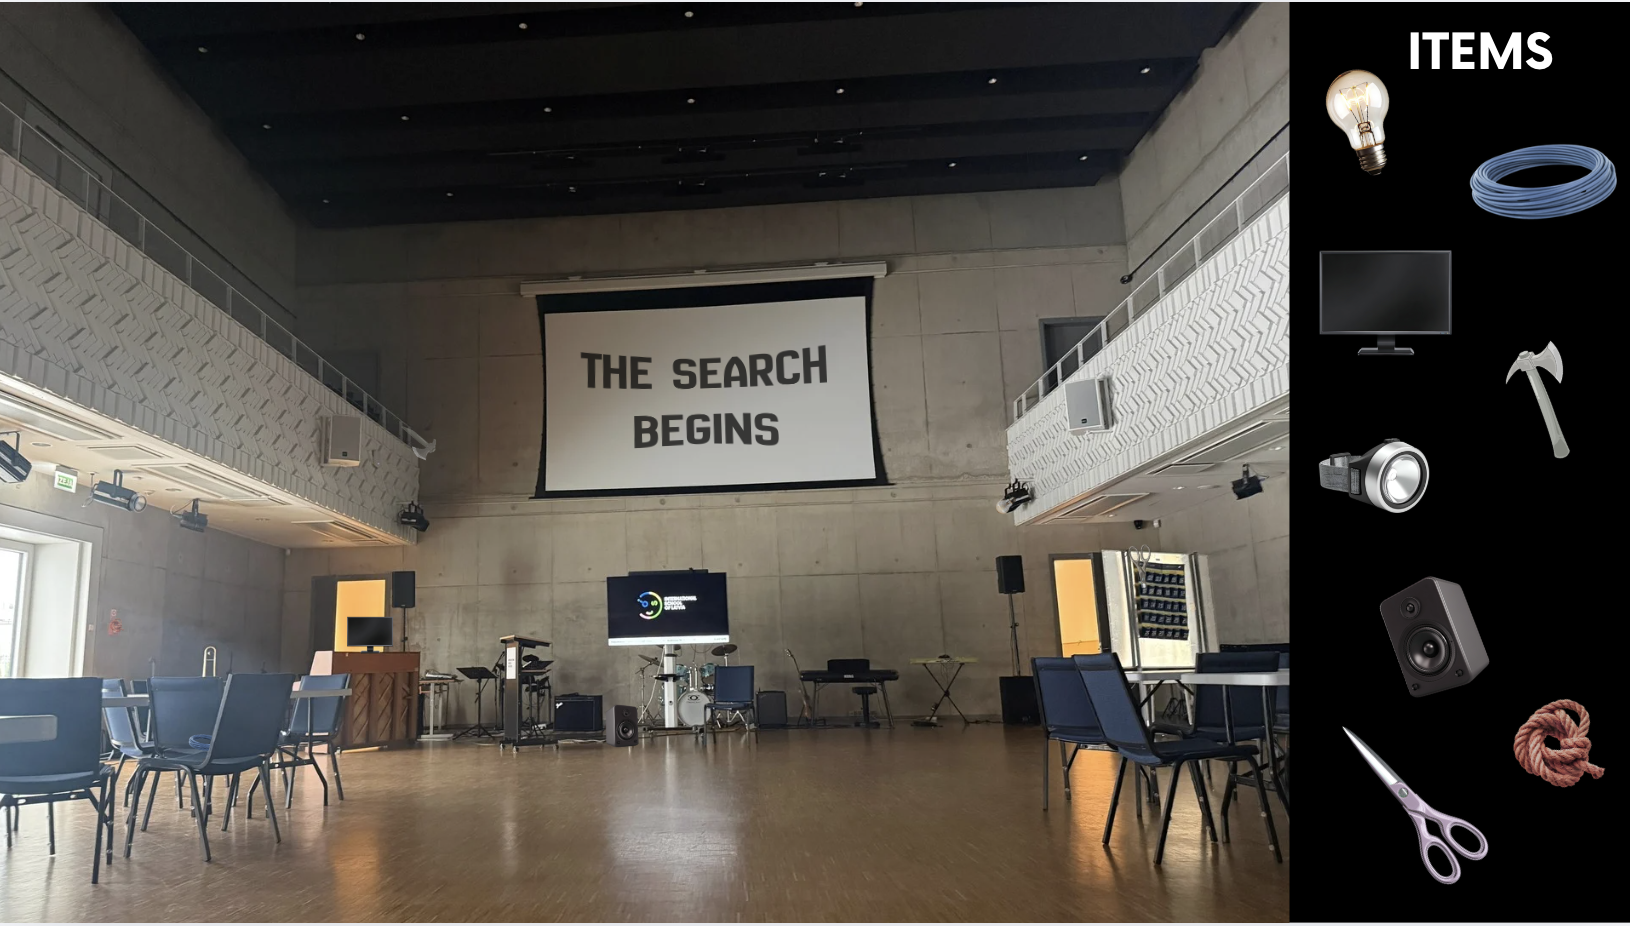
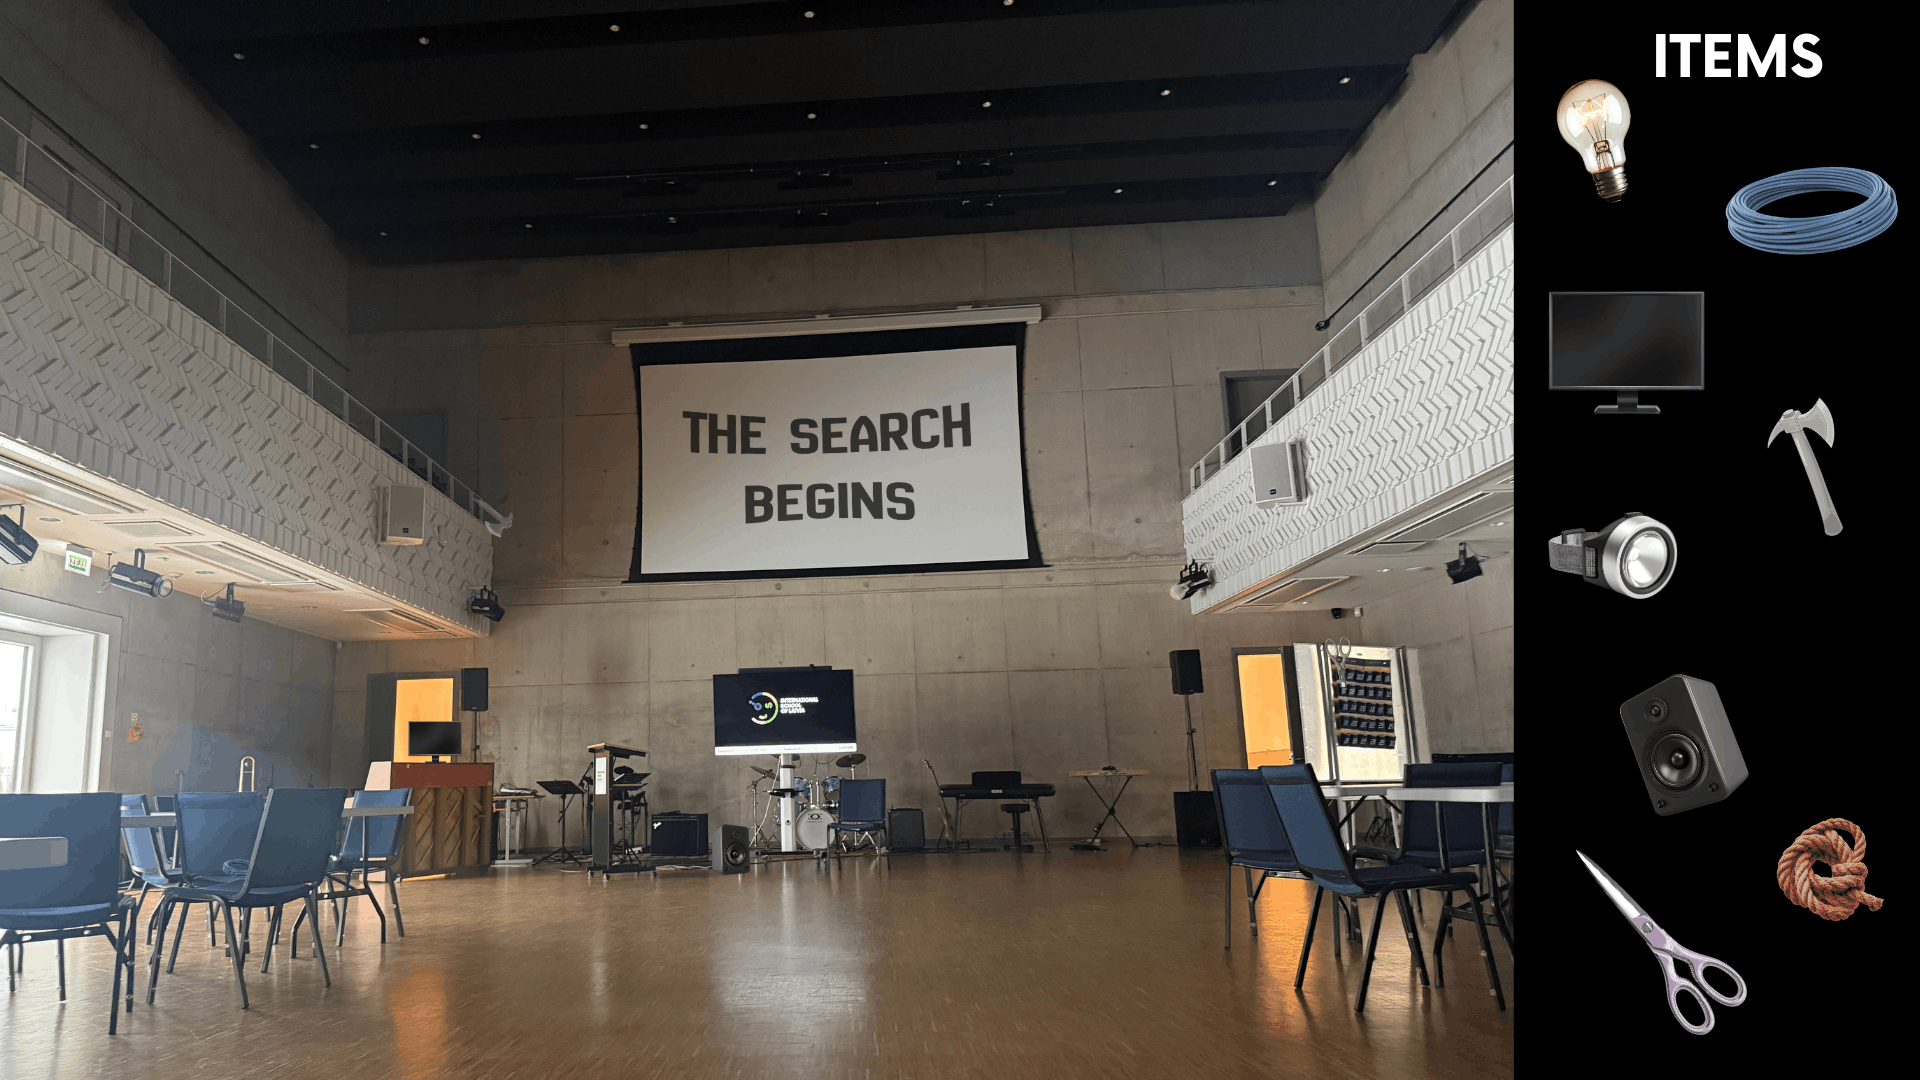
Changed images to the compressed ones, coded the end screen and removed the white borders

diff --git a/index.html b/index.html
@@ -17,47 +17,42 @@ DO NOT let AI code for you!!
 </head>
 
 <body>
-  <div id="start-screen" class="screen">
-    <img src="Images/start.png" class="full-bg">
-    <div class="story-overlay">
-      <h1>The Silent Auditorium</h1>
-      <p>The system needs your help. To bring this space back to normal,
-        you must solve a puzzle that correctly orders the lights,
-        sound, and screen cues</p>
-      <img src="Images/arrow.png" id="start-arrow" onclick="startGame()">
+    <div id="start-screen" class="screen">
+        <img src="Images/start.png" class="full-bg">
+        <div class="story-overlay">
+            <h1>The Silent Auditorium</h1>
+            <p>The system needs your help...</p>
+            <img src="Images/arrow.png" id="start-arrow" onclick="startGame()">
+        </div>
     </div>
-  </div>
 
-  <div id="game-screen" class="screen hidden">
-    <img src="Images/The game.png" class="full-bg">
+    <div id="game-screen" class="screen hidden">
+        <img src="Images/The game.png" class="full-bg">
+
+        <div id="hit-bulb" class="hitbox" onclick="found('bulb')"></div>
+        <div id="hit-wire" class="hitbox" onclick="found('wire')"></div>
+        <div id="hit-monitor" class="hitbox" onclick="found('monitor')"></div>
+        <div id="hit-axe" class="hitbox" onclick="found('axe')"></div>
+        <div id="hit-flashlight" class="hitbox" onclick="found('flashlight')"></div>
+        <div id="hit-speaker" class="hitbox" onclick="found('speaker')"></div>
+        <div id="hit-scissors" class="hitbox" onclick="found('scissors')"></div>
+        <div id="hit-rope" class="hitbox" onclick="found('rope')"></div>
+
+        <img src="Images/checkmark.png" id="check-bulb" class="check-sticker hidden">
+        <img src="Images/checkmark.png" id="check-wire" class="check-sticker hidden">
+        <img src="Images/checkmark.png" id="check-monitor" class="check-sticker hidden">
+        <img src="Images/checkmark.png" id="check-axe" class="check-sticker hidden">
+        <img src="Images/checkmark.png" id="check-flashlight" class="check-sticker hidden">
+        <img src="Images/checkmark.png" id="check-speaker" class="check-sticker hidden">
+        <img src="Images/checkmark.png" id="check-scissors" class="check-sticker hidden">
+        <img src="Images/checkmark.png" id="check-rope" class="check-sticker hidden">
+    </div>
 
     <div id="end-screen" class="screen hidden" style="display:none;">
-    <img src="Images/theendscreen.png" class="full-bg">
-</div>
+        <img src="Images/theendscreen.png" class="full-bg">
+    </div>
 
-    <div id="hit-bulb" class="hitbox" onclick="found('bulb')"></div>
-    <div id="hit-wire" class="hitbox" onclick="found('wire')"></div>
-    <div id="hit-monitor" class="hitbox" onclick="found('monitor')"></div>
-    <div id="hit-axe" class="hitbox" onclick="found('axe')"></div>
-    <div id="hit-flashlight" class="hitbox" onclick="found('flashlight')"></div>
-    <div id="hit-speaker" class="hitbox" onclick="found('speaker')"></div>
-    <div id="hit-scissors" class="hitbox" onclick="found('scissors')"></div>
-    <div id="hit-rope" class="hitbox" onclick="found('rope')"></div>
-
-    <img src="Images/checkmark.png" id="check-bulb" class="check-sticker hidden">
-    <img src="Images/checkmark.png" id="check-wire" class="check-sticker hidden">
-    <img src="Images/checkmark.png" id="check-monitor" class="check-sticker hidden">
-    <img src="Images/checkmark.png" id="check-axe" class="check-sticker hidden">
-    <img src="Images/checkmark.png" id="check-flashlight" class="check-sticker hidden">
-    <img src="Images/checkmark.png" id="check-speaker" class="check-sticker hidden">
-    <img src="Images/checkmark.png" id="check-scissors" class="check-sticker hidden">
-    <img src="Images/checkmark.png" id="check-rope" class="check-sticker hidden">
-  </div>
-  <script src="script.js"></script>
-  <div id="game-screen" class="screen hidden">
-    <img src="Images/The game.png" class="full-bg">
-
-
+    <script src="script.js"></script>
 </body>
 
 </html>

diff --git a/script.js b/script.js
@@ -1,13 +1,18 @@
-let totalClicked = 0; 
+// 1. Setup the counter at the very top
+let totalClicked = 0;
 
+console.log("Script loaded and ready!");
+
+// 2. The main function for finding items
 function found(itemName) {
-    // This alert helps us test if the click is even working
     console.log("System detected click on: " + itemName);
 
     const checkmark = document.getElementById('check-' + itemName);
     const hitbox = document.getElementById('hit-' + itemName);
 
+    // Only run if the checkmark exists and hasn't been found yet
     if (checkmark && checkmark.classList.contains('hidden')) {
+        
         checkmark.classList.remove('hidden');
         checkmark.classList.add('checkmark-animated');
         
@@ -18,13 +23,28 @@ function found(itemName) {
         totalClicked = totalClicked + 1;
         console.log("Score: " + totalClicked + "/8");
 
+        // When all 8 are found, change the screen
         if (totalClicked === 8) {
             finishGame();
         }
     }
 }
 
+// 3. Function to start the game
+function startGame() {
+    console.log("Starting game...");
+    const startScreen = document.getElementById('start-screen');
+    const gameScreen = document.getElementById('game-screen');
+
+    if (startScreen && gameScreen) {
+        startScreen.classList.add('hidden');
+        gameScreen.classList.remove('hidden');
+    }
+}
+
+// 4. Function to end the game
 function finishGame() {
+    console.log("Game Finished! Switching to end screen.");
     const gameArea = document.getElementById('game-screen');
     const endArea = document.getElementById('end-screen');
 
@@ -32,59 +52,5 @@ function finishGame() {
         gameArea.style.display = 'none'; // Force hide
         endArea.style.display = 'block'; // Force show
         endArea.classList.remove('hidden');
-    } else {
-        alert("Error: Could not find the screen IDs. Check your HTML!");
-    }
-}
-
-console.log("Script loaded");
-
-// below is basic example code for using a button
-// you can use it, expand on it, or delete it
-// that all depends on your team's plan.
-
-const button = document.getElementById("button");
-const output = document.getElementById("output");
-
-button.addEventListener("click", function () {
-    output.textContent = "JavaScript is working.";
-});
-/* Make sure the screens stack on top of each other */
-
-//3. The JavaScript(script.js)
-//Since you renamed your button / arrow and want to switch screens, make sure your script.js has this function:
-
-//    JavaScript
-function startGame() {
-    // Hide the start screen
-    document.getElementById('start-screen').classList.add('hidden');
-
-    // Show the game screen
-    document.getElementById('game-screen').classList.remove('hidden');
-}
-function startGame() {
-    // 1. Get the Start Screen and add the 'hidden' class to it
-    const startScreen = document.getElementById('start-screen');
-    startScreen.classList.add('hidden');
-
-    // 2. Get the Game Screen and remove the 'hidden' class from it
-    const gameScreen = document.getElementById('game-screen');
-    gameScreen.classList.remove('hidden');
-
-    // Optional: Log it in the console to make sure it works
-    console.log("The search begins!");
-}
-function found(itemName) {
-    // 1. Find the checkmark image and show it with the animation
-    const checkmark = document.getElementById('check-' + itemName);
-    if (checkmark) {
-        checkmark.classList.remove('hidden');
-        checkmark.classList.add('checkmark-animated');
-    }
-
-    // 2. Make the hitbox unclickable so you don't find it twice
-    const hitbox = document.getElementById('hit-' + itemName);
-    if (hitbox) {
-        hitbox.style.pointerEvents = 'none';
     }
 }

diff --git a/style.css b/style.css
@@ -1,4 +1,16 @@
+/* Add this to the very top of your style.css */
+* {
+    margin: 0;
+    padding: 0;
+    box-sizing: border-box;
+}
 
+body {
+    background-color: black; /* This removes the white background */
+    overflow: hidden;        /* This prevents scrolling bars from appearing */
+    width: 100vw;
+    height: 100vh;
+}
 
 /* Make sure the screens stack on top of each other */
 .screen {
